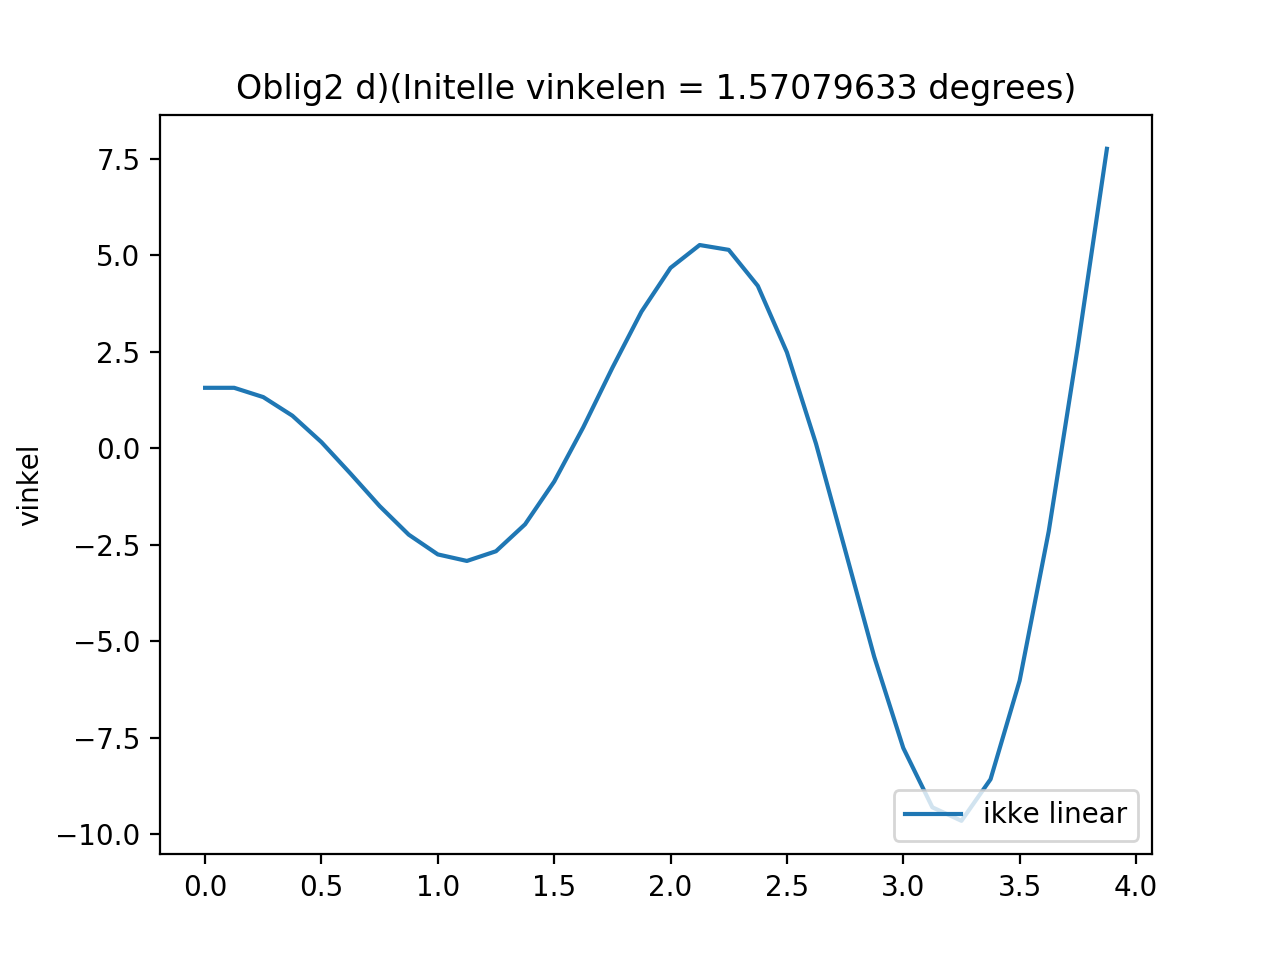
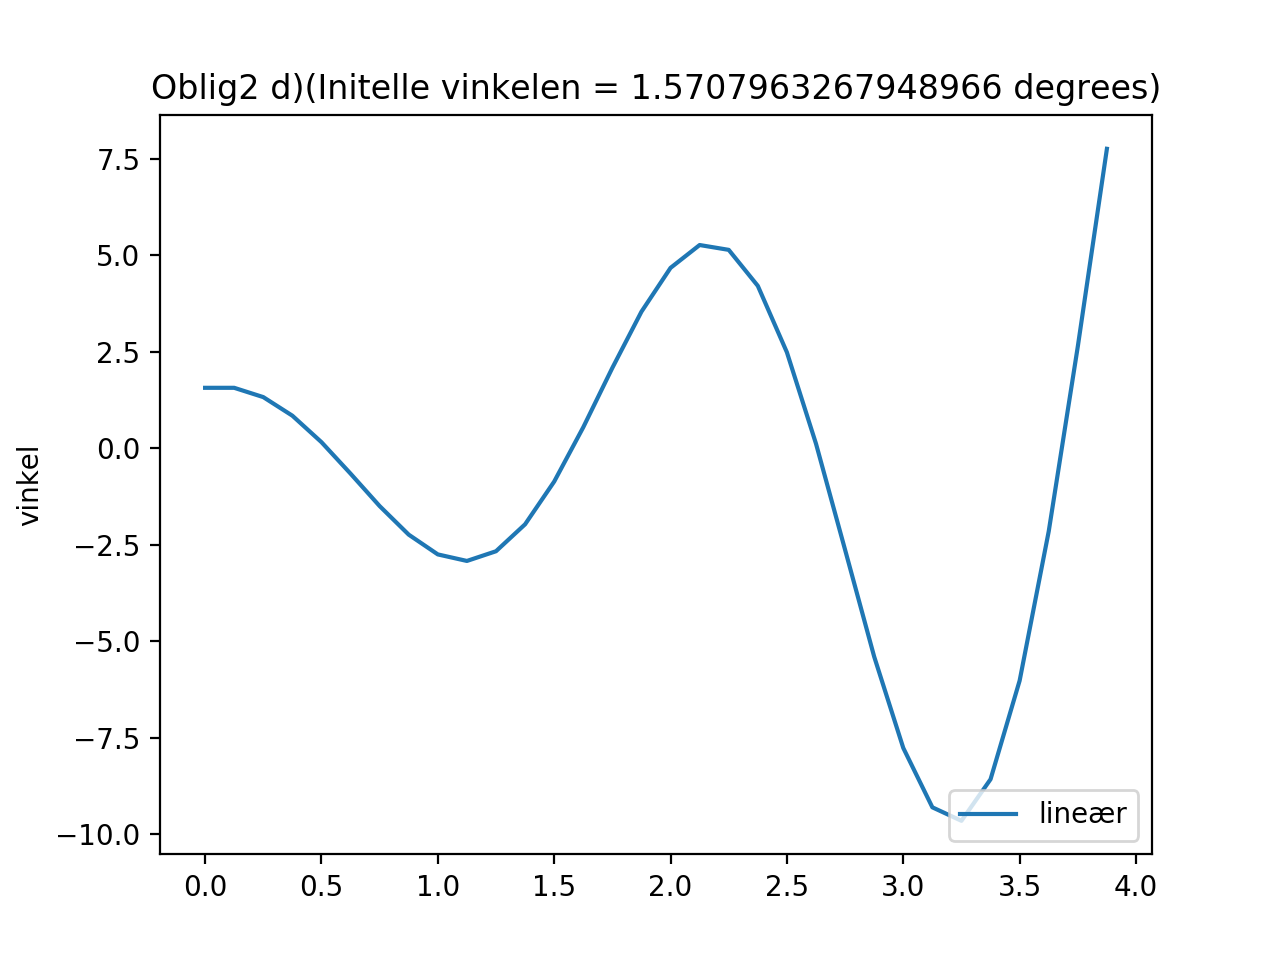
Endret legenden i plotten fra v3 og v2

Changed region(s): [[0.125, 0.0625, 0.9062, 0.125], [0.6875, 0.8125, 0.875, 0.875]]

diff --git a/oblig2/euler_pendelum_v3.py b/oblig2/euler_pendelum_v3.py
@@ -7,7 +7,7 @@ def plot_results(time, theta1):
     s = '(Initelle vinkelen = ' + str(theta0) + ' degrees)'
     plt.title("Oblig2 d)" + s)
     plt.ylabel('vinkel')
-    plt.legend(['ikke linear'], loc='lower right')
+    plt.legend(['lineær'], loc='lower right')
     plt.show()
 
 # Algorithm description
